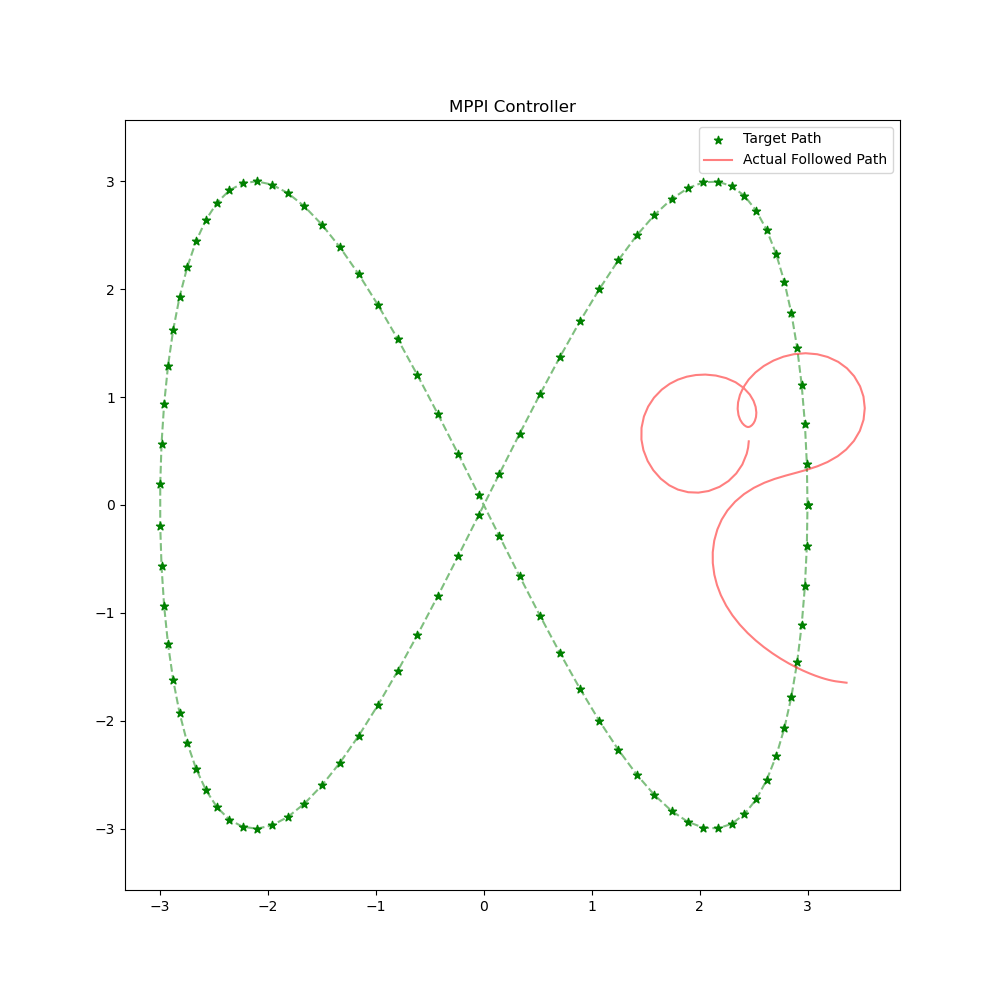
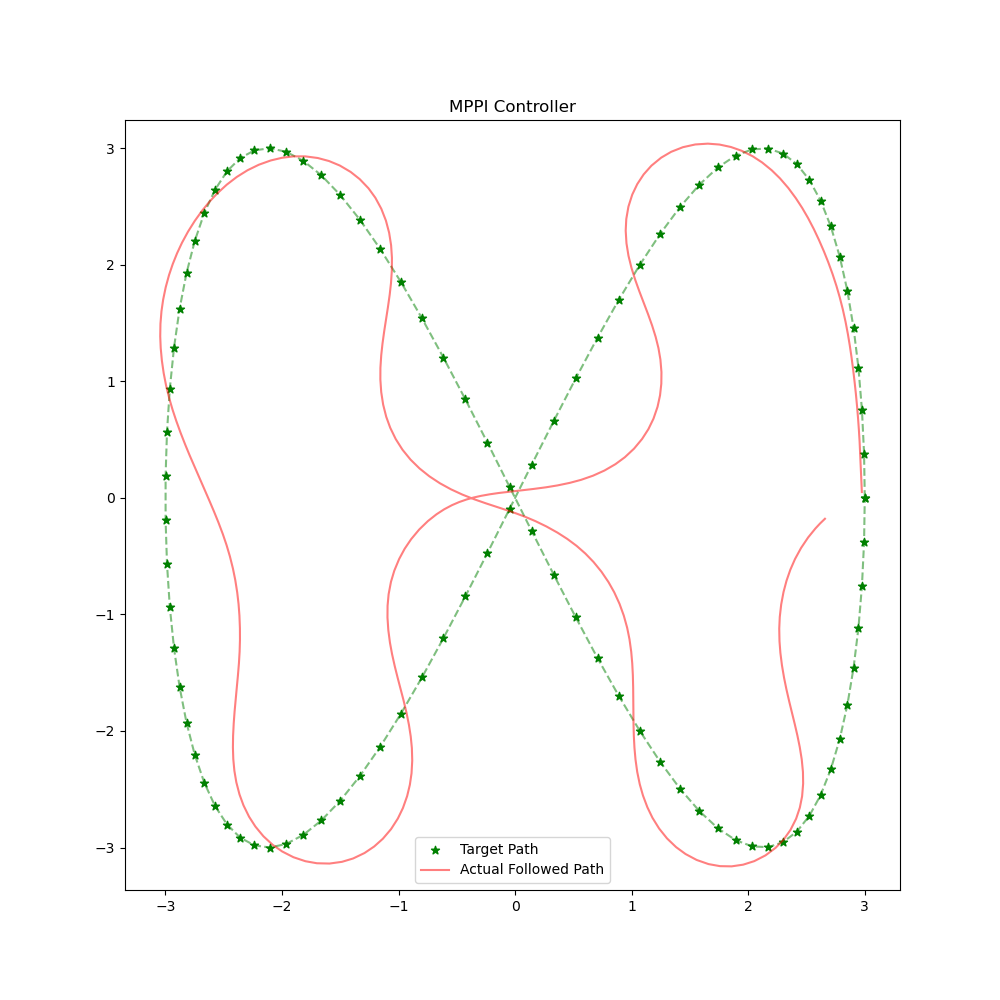
updates

diff --git a/src/xiron_py/controller/ilqr.py b/src/xiron_py/controller/ilqr.py
@@ -1,0 +1,74 @@
+import numpy as np
+from xiron_py.controller import Controller, cutils
+import scipy
+import scipy.linalg
+
+
+class ILQR(Controller):
+    def __init__(
+        self,
+        Q: np.ndarray,
+        R: np.ndarray,
+        max_horizon_distance: float = 1.2,
+        max_control: list[float] = [0.5, 1.0],
+        min_control: list[float] = [-0.5, -1.0],
+    ):
+        super().__init__()
+        self.plan = None
+        self.Q = Q
+        self.R = R
+        self.max_horizon_distance = max_horizon_distance
+        self.max_control = max_control
+        self.min_control = min_control
+
+    def get_AB_matrices(self, state: np.ndarray, control: np.ndarray):
+        A = np.zeros((3, 3))
+        B = np.zeros((3, 2))
+
+        A[2, 0] = -control[0][0] * np.sin(state[2][0])
+        A[2, 1] = control[0][0] * np.cos(state[2][0])
+
+        B[0, 0] = np.cos(state[2][0])
+        B[1, 0] = np.sin(state[2][0])
+        B[2, 1] = 1
+
+        return A, B
+
+    def get_k_matrix(self, A, B, Q, R):
+        P = scipy.linalg.solve_discrete_are(A, B, Q, R)
+        K = np.dot(np.linalg.inv(R), np.dot(B.T, P))
+
+        return K
+
+    def set_plan(self, plan: np.ndarray | list) -> None:
+        self.plan = plan
+        self.goal_pose = self.plan[:, -1].reshape(-1, 1)
+
+    def compute_contol(
+        self, current_state: np.ndarray | list, last_contol: np.ndarray | list
+    ) -> np.ndarray:
+        # Get lookahead path
+        # lookahead_path = cutils.get_receding_horizon_path(
+        #     self.plan,
+        #     current_pose=current_state,
+        #     max_horizon_distance=self.max_horizon_distance,
+        # )
+        # lookahead_pose = lookahead_path[:, -1].reshape(-1, 1)
+        
+        # Linearise the model near the current_state and last_control
+        A, B = self.get_AB_matrices(self.goal_pose, last_contol)
+        try:
+            K = self.get_k_matrix(A, B, self.Q, self.R)
+
+            control = last_contol - K @ (current_state - self.goal_pose)
+            control[0][0] = np.clip(
+                control[0][0], self.min_control[0], self.max_control[0]
+            )
+            control[1][0] = np.clip(
+                control[1][0], self.min_control[1], self.max_control[1]
+            )
+
+            return control
+        except Exception as e:
+            print(e)
+            return None

diff --git a/src/xiron_py/examples/ilqr/path_tracking.py b/src/xiron_py/examples/ilqr/path_tracking.py
@@ -2,12 +2,12 @@
 from time import sleep
 import numpy as np
 from xiron_py.comms import XironContext
-from xiron_py.controller.mppi import MPPIController
+from xiron_py.controller.ilqr import ILQR
 from xiron_py.data import Pose, Twist
 
 import matplotlib.pyplot as plt
 
-last_control = np.array([0.0, 0.0]).reshape(-1, 1)
+last_control = np.array([0.001, 0.001]).reshape(-1, 1)
 robot_poses = []
 
 def pose_callback(msg: Pose):
@@ -17,20 +17,20 @@ def pose_callback(msg: Pose):
     )
     robot_poses.append(pose_array)
 
-    control = mppi.compute_contol(pose_array, last_control)
+    control = controller.compute_contol(pose_array, last_control)
 
     if control is not None:
         twist_message = Twist(
             "robot0", [control[0][0].item(), 0.0], control[1][0].item()
         )
-        # print(twist_message)
+        print(twist_message)
         vel_pub.publish(twist_message)
         last_control = control
     else:
         twist_message = Twist("robot0", [0.0, 0.0], 0.0)
         vel_pub.publish(twist_message)
         print("Got None out from the controller. Setting to zero velocity")
-        last_control = np.array([0.0, 0.0]).reshape(-1, 1)
+        last_control = np.array([0.001, 0.001]).reshape(-1, 1)
 
 
 # Create a context object
@@ -49,18 +49,7 @@ critics = [
 
 max_control = [0.5, 1.0]
 min_control = [0.0, -1.0]
-mppi = MPPIController(
-    device="cpu",
-    min_control=min_control,
-    max_control=max_control,
-    dt=dt,
-    no_of_samples=3000,
-    timesteps=56,
-    critics=critics,
-    temperature=0.3,
-    control_std_dev=[0.5, 0.7],
-    max_horizon_distance=1.2
-)
+controller = ILQR(np.diag([10.0, 10.0, 1.0]), np.diag([0.1, 0.1]))
 
 def figure_eight_spiral(radius, num_points, rotations):
     theta = np.linspace(0, rotations * 2 * np.pi, num_points)
@@ -85,7 +74,7 @@ for (x, y) in zip(x1, y1):
 plan = np.array(plan).T
 print("Starting Pose: ", plan[:, 0])
 
-mppi.set_plan(plan)
+controller.set_plan(plan)
 
 # Create the Pose Subscriber and add callback function
 ctx.create_pose_subscriber("robot0", pose_callback)
@@ -108,4 +97,4 @@ except KeyboardInterrupt as e:
     plt.axis('equal')
     # plt.show()
 
-    plt.savefig("media/controller_results/mppi_diff_drive.png")
+    plt.savefig("media/controller_results/ilqr_diff_drive.png")

diff --git a/src/xiron_py/controller/__init__.py b/src/xiron_py/controller/__init__.py
@@ -12,3 +12,27 @@ class Controller:
         self, current_state: np.ndarray | list, last_contol: np.ndarray | list
     ) -> np.ndarray:
         raise NotImplementedError
+
+class cutils:
+    @staticmethod
+    def get_receding_horizon_path(path, current_pose, max_horizon_distance):
+        def first_after_integrated_distance(path, distance):
+            # Get the last point that is atleast 1.5 m away
+            cum_distance = 0.0
+            for i in range(0, path.shape[1]-2):
+                distance = np.linalg.norm(path[:, i+1] - path[:, i])
+                cum_distance = distance + cum_distance
+                if cum_distance > max_horizon_distance:
+                    return i+1
+            return -1
+        
+        # first get the nearest pose in the path
+        # TODO: Do we handle already travelled poses?
+        nearest_pose_index = np.argmin(np.linalg.norm(path - current_pose, axis=0))
+        new_plan = path[:, nearest_pose_index:]
+        index_after_horizon_dist = first_after_integrated_distance(new_plan, max_horizon_distance)
+
+        if index_after_horizon_dist == -1:
+            return new_plan
+        else:
+            return new_plan[:, :index_after_horizon_dist+1]

diff --git a/src/xiron_py/examples/informed_rrt_star/follow_planned_path.py b/src/xiron_py/examples/informed_rrt_star/follow_planned_path.py
@@ -63,7 +63,7 @@ if __name__ == "__main__":
         critics=critics,
         temperature=0.3,
         control_std_dev=[0.5, 0.9],
-        max_horizon_distance=3.0,
+        max_horizon_distance=1.0,
     )
 
     env = EnvironmentManager("src/xiron_py/examples/informed_rrt_star/config.yaml")
